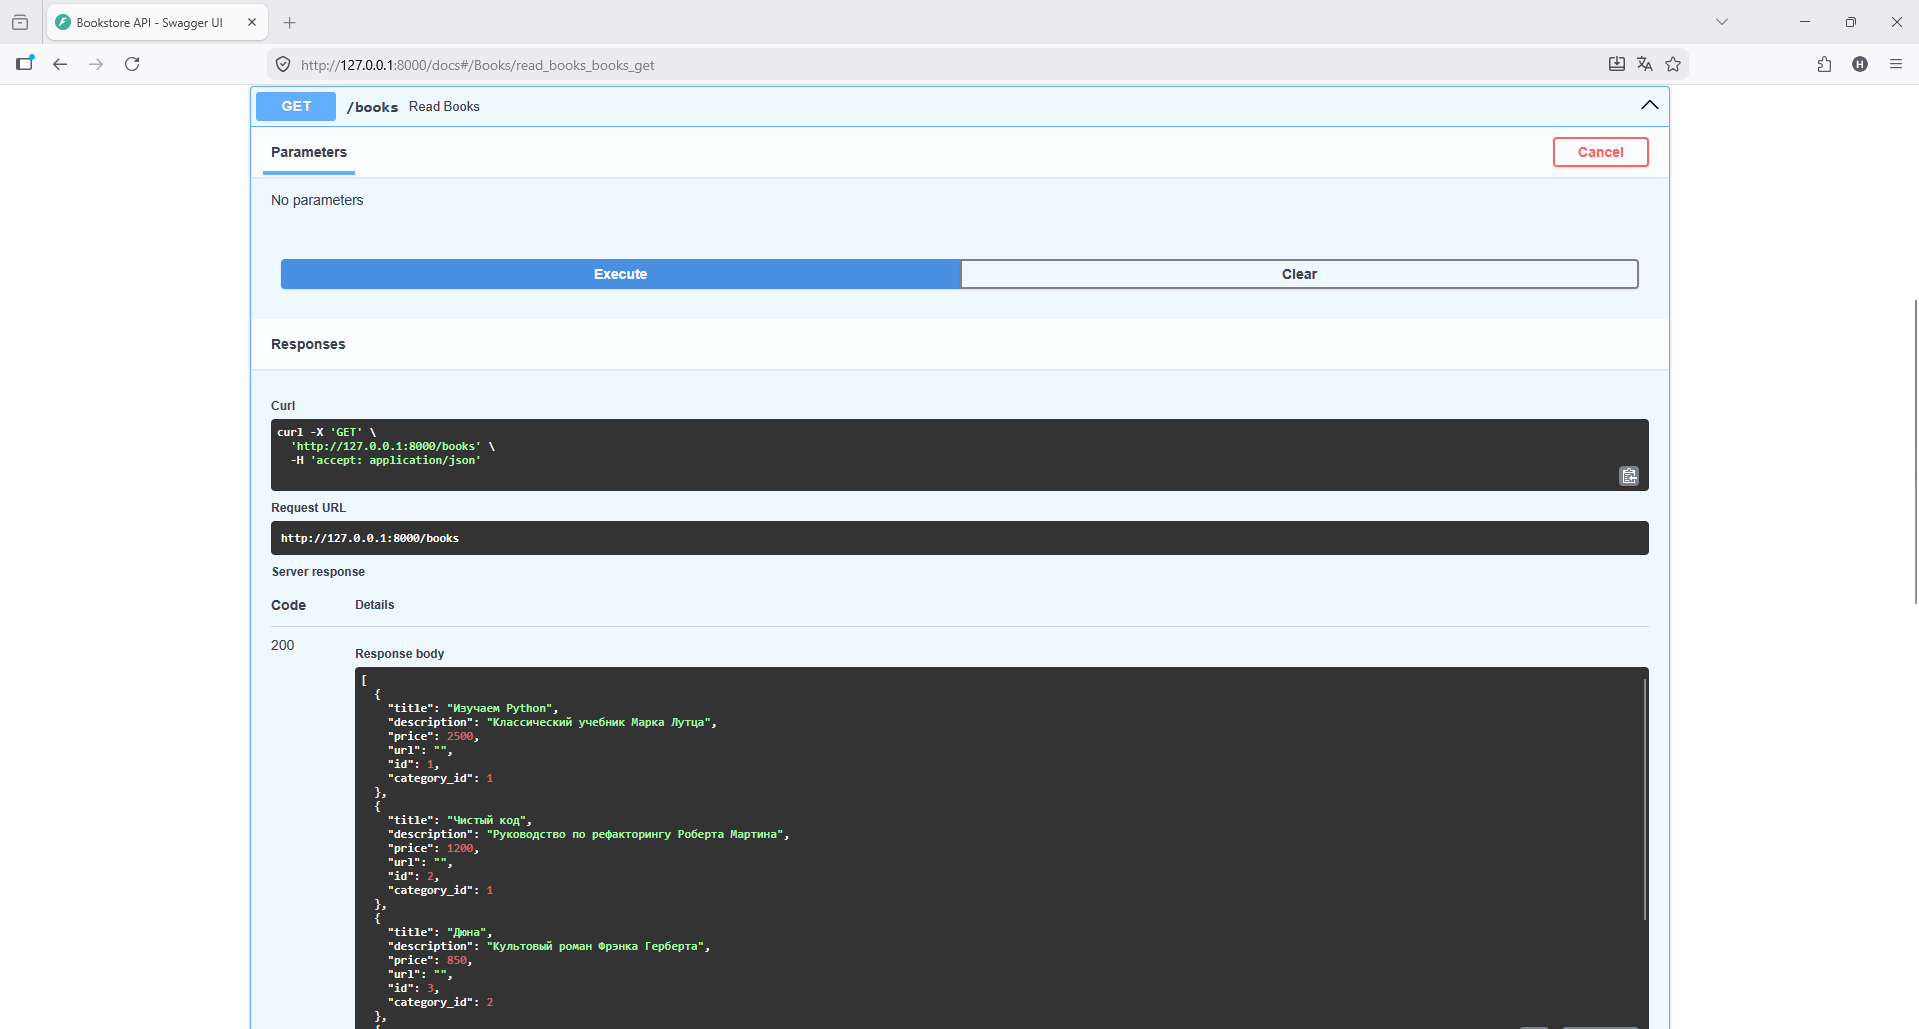
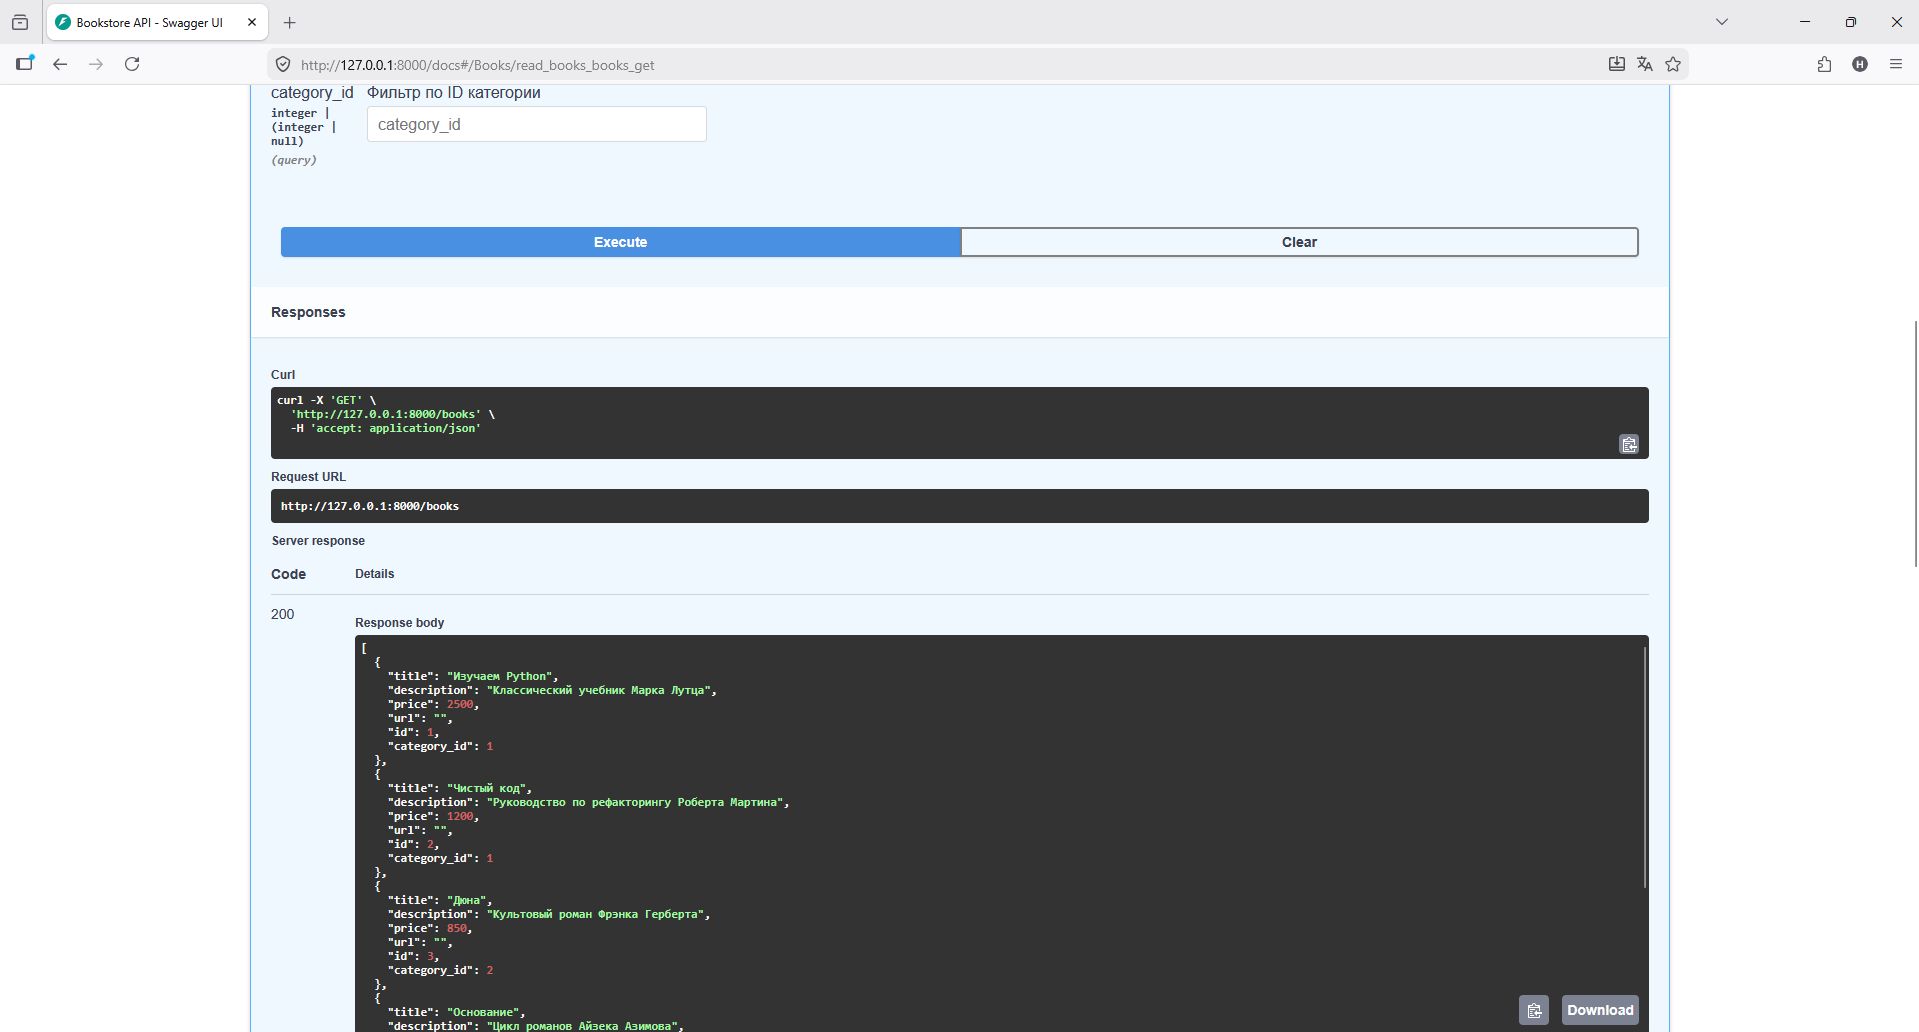
Исправлены замечания: роутеры перенесены в api, настроены коды 201/404, добавлен CRUD категорий и скриншоты

diff --git a/app/api/books.py b/app/api/books.py
@@ -1,0 +1,66 @@
+from fastapi import APIRouter, Depends, HTTPException, status, Query
+from sqlalchemy.orm import Session
+from typing import List, Optional
+import sys
+import os
+
+sys.path.append(os.path.dirname(os.path.dirname(os.path.dirname(os.path.abspath(__file__)))))
+
+from app.db import crud, db as db_config
+from app import schemas
+
+router = APIRouter(prefix="/books", tags=["Books"])
+
[email redacted]("", response_model=schemas.BookResponse, status_code=status.HTTP_201_CREATED)
+def create_book(book: schemas.BookCreate, db: Session = Depends(db_config.get_db)):
+    # Валидация бизнес-логики: проверяем, существует ли категория
+    category = crud.get_category_by_id(db, category_id=book.category_id)
+    if not category:
+        raise HTTPException(
+            status_code=status.HTTP_400_BAD_REQUEST, 
+            detail=f"Category with id {book.category_id} does not exist"
+        )
+    return crud.create_book(
+        db=db, 
+        title=book.title, 
+        description=book.description, 
+        price=book.price, 
+        category_id=book.category_id, 
+        url=book.url
+    )
+
[email redacted]("", response_model=List[schemas.BookResponse])
+def read_books(category_id: Optional[int] = Query(None, description="Фильтр по ID категории"), db: Session = Depends(db_config.get_db)):
+    if category_id is not None:
+        return crud.get_books_by_category(db, category_id=category_id)
+    return crud.get_all_books(db)
+
[email redacted]("/{book_id}", response_model=schemas.BookResponse)
+def read_book(book_id: int, db: Session = Depends(db_config.get_db)):
+    db_book = crud.get_book_by_id(db, book_id=book_id)
+    if not db_book:
+        raise HTTPException(status_code=status.HTTP_404_NOT_FOUND, detail="Book not found")
+    return db_book
+
[email redacted]("/{book_id}", response_model=schemas.BookResponse)
+def update_book(book_id: int, book: schemas.BookCreate, db: Session = Depends(db_config.get_db)):
+    db_book = crud.get_book_by_id(db, book_id=book_id)
+    if not db_book:
+        raise HTTPException(status_code=status.HTTP_404_NOT_FOUND, detail="Book not found")
+    
+    category = crud.get_category_by_id(db, category_id=book.category_id)
+    if not category:
+        raise HTTPException(
+            status_code=status.HTTP_400_BAD_REQUEST, 
+            detail=f"Category with id {book.category_id} does not exist"
+        )
+        
+    return crud.update_book(db, book_id=book_id, book_data=book.model_dump())
+
[email redacted]("/{book_id}")
+def delete_book(book_id: int, db: Session = Depends(db_config.get_db)):
+    db_book = crud.get_book_by_id(db, book_id=book_id)
+    if not db_book:
+        raise HTTPException(status_code=status.HTTP_404_NOT_FOUND, detail="Book not found")
+    crud.delete_book(db, book_id=book_id)
+    return {"message": f"Book {book_id} successfully deleted"}

diff --git a/app/main.py b/app/main.py
@@ -1,65 +1,16 @@
 import sys
 import os
-from fastapi import FastAPI, Depends, HTTPException
-from sqlalchemy.orm import Session
-from typing import List
+from fastapi import FastAPI
 
 sys.path.append(os.path.dirname(os.path.dirname(os.path.abspath(__file__))))
 
-from app.db import crud, models, db as db_config
-from app import schemas
+from app.api import categories, books
 
 app = FastAPI(title="Bookstore API", description="API для управления книгами и категориями")
+
+app.include_router(categories.router)
+app.include_router(books.router)
 
 @app.get("/health", tags=["System"])
 def health_check():
     return {"status": "alive", "database": "connected"}
-
-
[email redacted]("/categories", response_model=schemas.CategoryResponse, tags=["Categories"])
-def create_category(category: schemas.CategoryCreate, db: Session = Depends(db_config.get_db)):
-    return crud.create_category(db=db, title=category.title)
-
[email redacted]("/categories", response_model=List[schemas.CategoryResponse], tags=["Categories"])
-def read_categories(db: Session = Depends(db_config.get_db)):
-    return crud.get_all_categories(db)
-
[email redacted]("/categories/{category_id}", tags=["Categories"])
-def delete_category(category_id: int, db: Session = Depends(db_config.get_db)):
-    deleted = crud.delete_category(db, category_id=category_id)
-    if not deleted:
-        raise HTTPException(status_code=404, detail="Category not found")
-    return {"message": f"Category {category_id} successfully deleted"}
-
-
[email redacted]("/books", response_model=schemas.BookResponse, tags=["Books"])
-def create_book(book: schemas.BookCreate, db: Session = Depends(db_config.get_db)):
-    category = crud.get_category_by_id(db, category_id=book.category_id)
-    if not category:
-        raise HTTPException(status_code=400, detail="Category does not exist")
-    return crud.create_book(
-        db=db, 
-        title=book.title, 
-        description=book.description, 
-        price=book.price, 
-        category_id=book.category_id, 
-        url=book.url
-    )
-
[email redacted]("/books", response_model=List[schemas.BookResponse], tags=["Books"])
-def read_books(db: Session = Depends(db_config.get_db)):
-    return crud.get_all_books(db)
-
[email redacted]("/books/{book_id}", response_model=schemas.BookResponse, tags=["Books"])
-def update_book(book_id: int, book: schemas.BookCreate, db: Session = Depends(db_config.get_db)):
-    db_book = crud.get_book_by_id(db, book_id=book_id)
-    if not db_book:
-        raise HTTPException(status_code=404, detail="Book not found")
-    return crud.update_book(db, book_id=book_id, book_data=book.model_dump())
-
[email redacted]("/books/{book_id}", tags=["Books"])
-def delete_book(book_id: int, db: Session = Depends(db_config.get_db)):
-    deleted = crud.delete_book(db, book_id=book_id)
-    if not deleted:
-        raise HTTPException(status_code=404, detail="Book not found")
-    return {"message": f"Book {book_id} successfully deleted"}

diff --git a/app/api/categories.py b/app/api/categories.py
@@ -1,0 +1,42 @@
+from fastapi import APIRouter, Depends, HTTPException, status
+from sqlalchemy.orm import Session
+from typing import List
+import sys
+import os
+
+sys.path.append(os.path.dirname(os.path.dirname(os.path.dirname(os.path.abspath(__file__)))))
+
+from app.db import crud, db as db_config
+from app import schemas
+
+router = APIRouter(prefix="/categories", tags=["Categories"])
+
[email redacted]("", response_model=schemas.CategoryResponse, status_code=status.HTTP_201_CREATED)
+def create_category(category: schemas.CategoryCreate, db: Session = Depends(db_config.get_db)):
+    return crud.create_category(db=db, title=category.title)
+
[email redacted]("", response_model=List[schemas.CategoryResponse])
+def read_categories(db: Session = Depends(db_config.get_db)):
+    return crud.get_all_categories(db)
+
[email redacted]("/{category_id}", response_model=schemas.CategoryResponse)
+def read_category(category_id: int, db: Session = Depends(db_config.get_db)):
+    db_category = crud.get_category_by_id(db, category_id=category_id)
+    if not db_category:
+        raise HTTPException(status_code=status.HTTP_404_NOT_FOUND, detail="Category not found")
+    return db_category
+
[email redacted]("/{category_id}", response_model=schemas.CategoryResponse)
+def update_category(category_id: int, category: schemas.CategoryCreate, db: Session = Depends(db_config.get_db)):
+    db_category = crud.get_category_by_id(db, category_id=category_id)
+    if not db_category:
+        raise HTTPException(status_code=status.HTTP_404_NOT_FOUND, detail="Category not found")
+    return crud.update_category(db, category_id=category_id, title=category.title)
+
[email redacted]("/{category_id}")
+def delete_category(category_id: int, db: Session = Depends(db_config.get_db)):
+    db_category = crud.get_category_by_id(db, category_id=category_id)
+    if not db_category:
+        raise HTTPException(status_code=status.HTTP_404_NOT_FOUND, detail="Category not found")
+    crud.delete_category(db, category_id=category_id)
+    return {"message": f"Category {category_id} successfully deleted"}

diff --git a/app/db/crud.py b/app/db/crud.py
@@ -49,3 +49,14 @@ def delete_book(db: Session, book_id: int):
         db.delete(db_book)
         db.commit()
     return db_book
+
+def update_category(db: Session, category_id: int, title: str):
+    db_category = db.query(Category).filter(Category.id == category_id).first()
+    if db_category:
+        db_category.title = title
+        db.commit()
+        db.refresh(db_category)
+    return db_category
+
+def get_books_by_category(db: Session, category_id: int):
+    return db.query(Book).filter(Book.category_id == category_id).all()